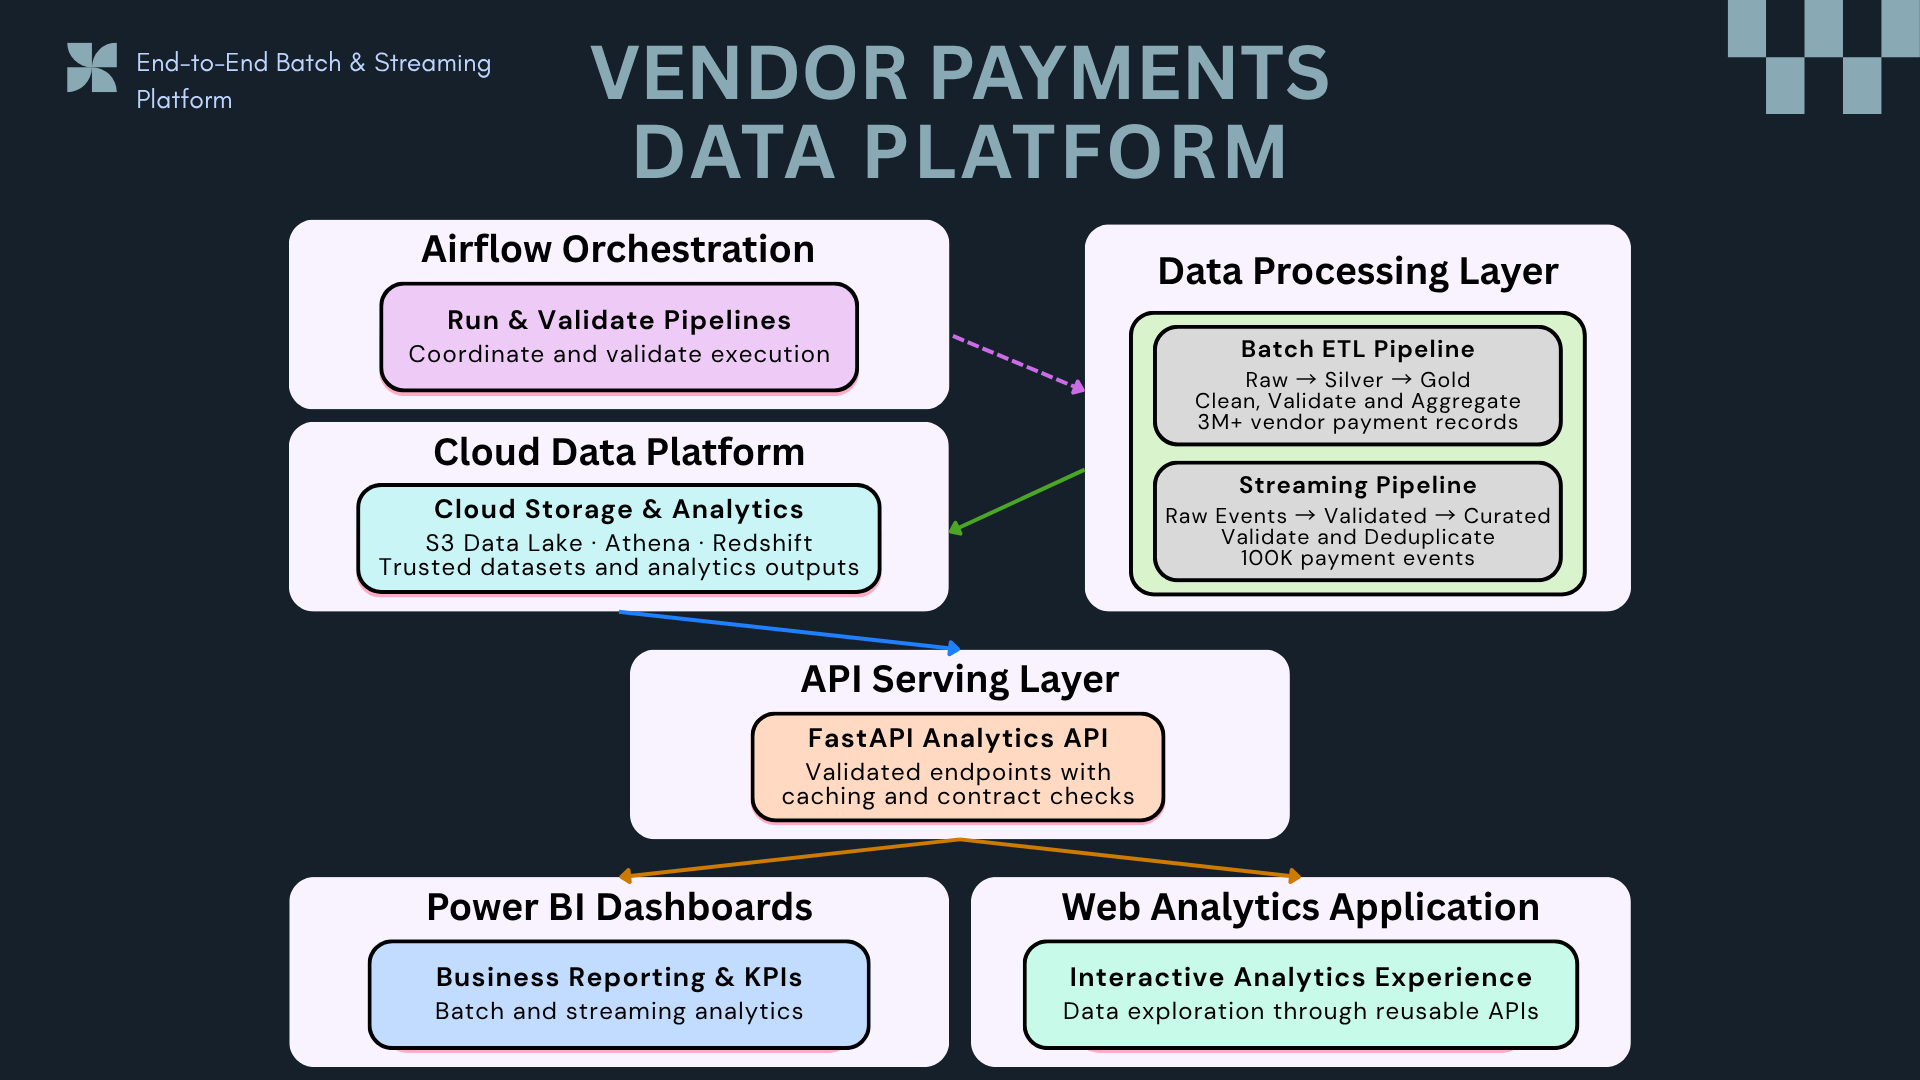
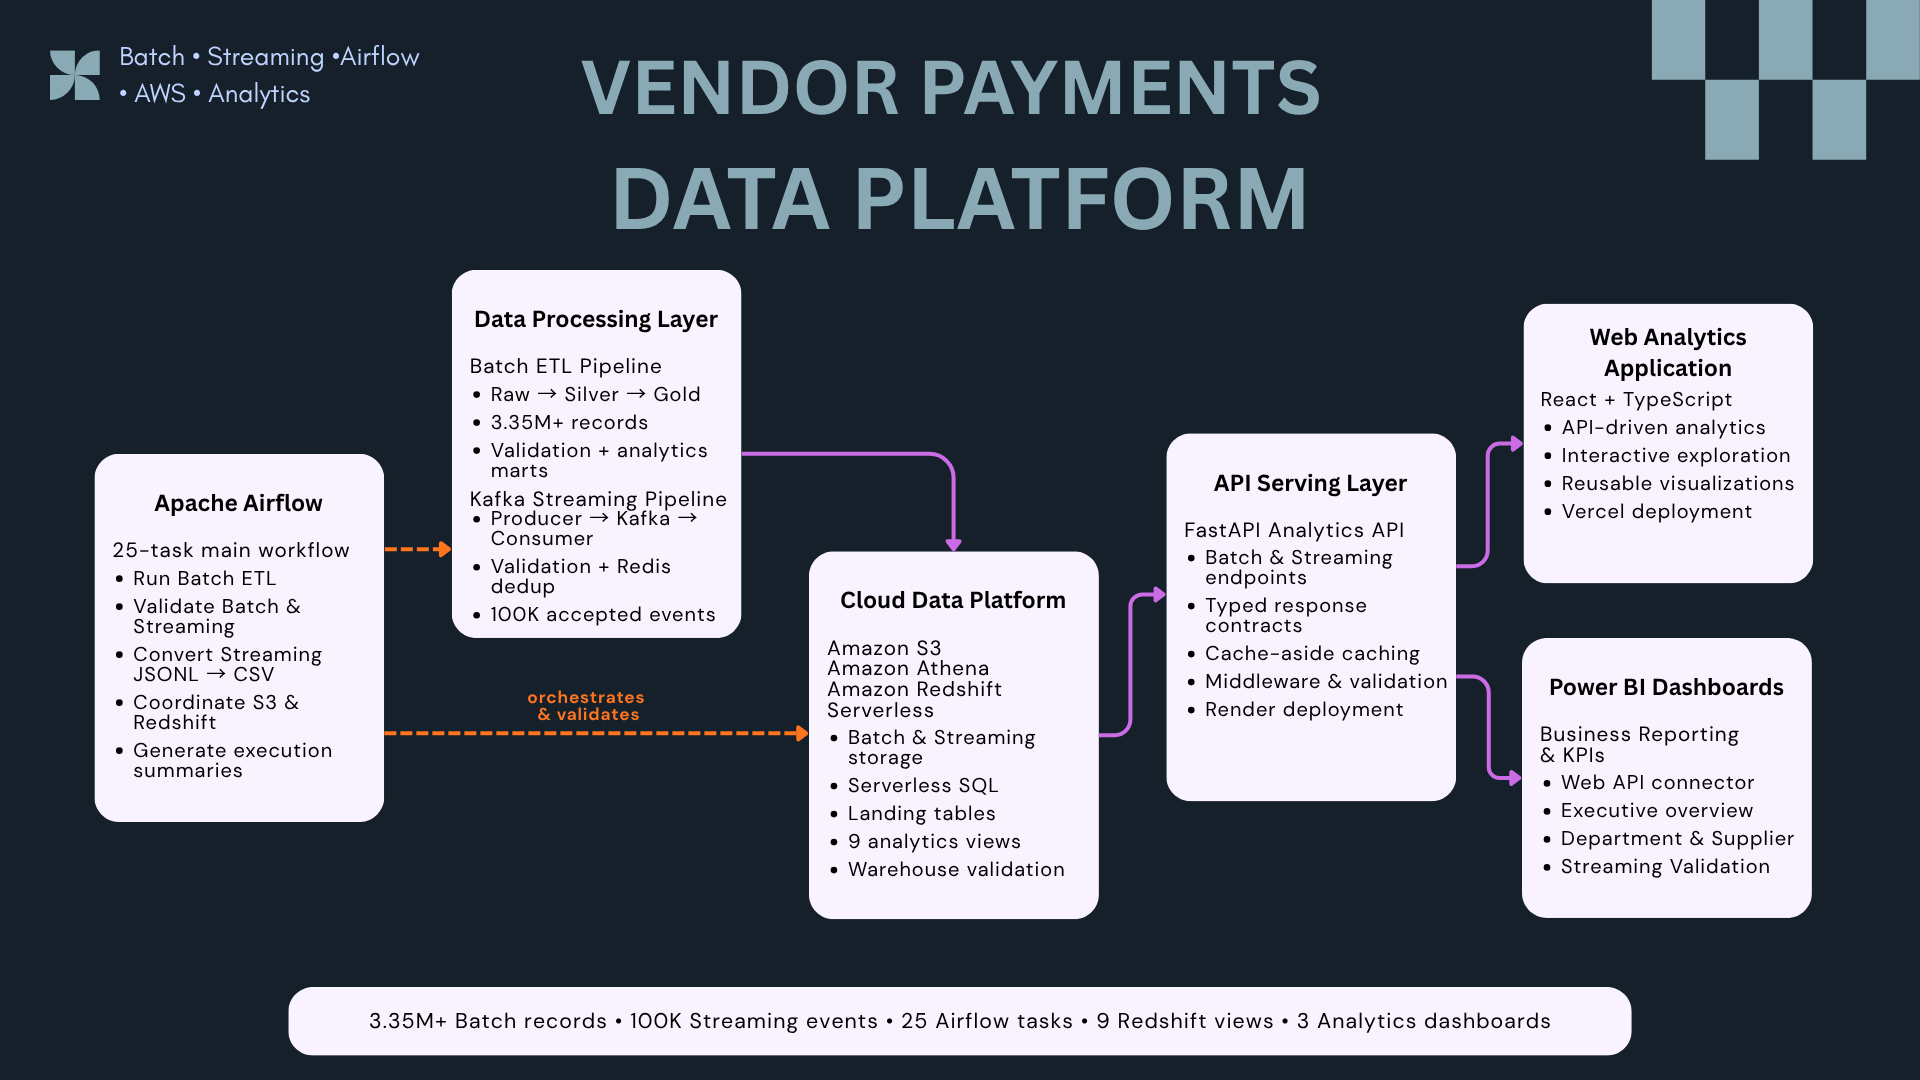
docs: finalize vendor payments data platform

diff --git a/README.md b/README.md
@@ -15,7 +15,7 @@ An end-to-end data engineering portfolio that connects Batch ETL, Streaming, Air
 
 **Built independently by Thanaseth Chuachan, a Data Engineer candidate with a Mathematics background.**
 
-[**Live Analytics Application**](https://vendor-payments-analytics.vercel.app) · [**FastAPI Documentation**](https://vendor-payments-api-serving.onrender.com/docs) · [**Explore the Projects**](#explore-the-projects)
+[**Live Analytics Application**](https://vendor-payments-analytics.vercel.app) · [**FastAPI Documentation**](https://vendor-payments-api-render.onrender.com/docs) · [**Explore the Repositories**](#explore-the-repositories)
 
 ---
 
@@ -23,13 +23,13 @@ An end-to-end data engineering portfolio that connects Batch ETL, Streaming, Air
 
 | Metric | Validated result |
 |---|---:|
-| Integrated data engineering projects | 5 |
+| Platform repositories / components | 6 |
 | Batch records processed | 3.35M+ |
 | Validated Streaming events | 100,000 |
 | Distinct Streaming event IDs | 100,000 |
 | Duplicate or missing event IDs in warehouse validation | 0 |
-| Airflow orchestration | 3 DAGs, 12 tasks in the main platform workflow |
-| Main Airflow workflow runtime | 16 minutes 36 seconds |
+| Main Airflow workflow | 25 tasks |
+| Main Airflow workflow runtime | 1,160.74 seconds |
 | API cache validation | Cache MISS 7,076.46 ms → Cache HIT 0.58 ms |
 | Cached response improvement | ~12,200× faster with 99.99% latency reduction |
 | Total Redshift analytics views | 9 |
@@ -46,25 +46,27 @@ An end-to-end data engineering portfolio that connects Batch ETL, Streaming, Air
 The platform separates processing responsibilities while keeping the complete delivery path traceable:
 
 ```text
-Batch ETL + Streaming Processing
-            ↓
-     Airflow Orchestration
-            ↓
-Amazon S3 + Athena + Redshift
-            ↓
-     FastAPI Serving Layer
-            ↓
- Power BI + React Web Analytics
+                         Apache Airflow
+                    orchestrates & validates
+                         ⋮             ⋮
+                         ↓             ↓
+
+Batch ETL + Kafka Streaming ─────→ Cloud Data Platform
+                                      │
+                                      ↓
+                               FastAPI Serving
+                                  ↙         ↘
+                           Power BI        React Web
 ```
 
 ### Responsibility Boundaries
 
 - **Batch ETL Pipeline** owns Raw → Silver → Gold transformation, validation, and analytics marts.
-- **Streaming Pipeline** owns event ingestion, validation, deduplication, and curated outputs.
-- **Airflow Orchestration** coordinates execution, dependencies, retries, and metadata validation.
+- **Kafka Streaming Pipeline** owns Producer → Kafka → Consumer processing, schema validation, Redis-backed deduplication, accepted-event staging, and execution metrics.
+- **Airflow Orchestration** owns execution order, dependency coordination, Batch execution, downstream Streaming validation, JSONL → CSV conversion, S3/Redshift orchestration, and execution summaries.
 - **Cloud Data Platform** owns S3 publishing, Athena definitions, Redshift loading, analytics views, and runtime metadata.
 - **API Serving Layer** exposes validated Batch and Streaming analytics through reusable contracts.
-- **Power BI and React** consume the same trusted analytics outputs for business reporting and interactive exploration.
+- **Power BI and React** consume the FastAPI serving layer for business reporting and interactive exploration.
 
 ---
 
@@ -73,7 +75,7 @@ Amazon S3 + Athena + Redshift
 The deployed React application consumes the public FastAPI service and presents the final analytics consumption layer of the platform.
 
 **Live application:** https://vendor-payments-analytics.vercel.app  
-**API documentation:** https://vendor-payments-api-serving.onrender.com/docs
+**API documentation:** https://vendor-payments-api-render.onrender.com/docs
 
 ### Project Overview
 
@@ -104,7 +106,7 @@ The application demonstrates:
 
 ## Power BI Dashboards
 
-Three Power BI dashboards provide a second analytics-consumption path over the same trusted project outputs.
+Three Power BI dashboards provide a second analytics-consumption path through the Web API connector.
 
 ### Executive Overview Dashboard
 
@@ -122,17 +124,18 @@ This dual-consumption design demonstrates that the platform can serve both conve
 
 ---
 
-## Explore the Projects
+## Explore the Repositories
 
 Each repository owns a focused platform responsibility and includes architecture documentation, implementation details, automated validation, runtime metadata, and execution evidence.
 
-| Project | Responsibility | Engineering focus |
+| Repository | Responsibility | Engineering focus |
 |---|---|---|
-| [**Project 1 — Batch ETL Pipeline**](https://github.com/Chu-Thana/vendor-payments-etl-analytics) | Raw → Silver → Gold processing | Data cleaning, validation, aggregation, analytics marts, and reproducible Batch outputs |
-| [**Project 2 — API Serving Layer**](https://github.com/Chu-Thana/vendor-payments-api-serving) | FastAPI analytics service | Typed contracts, service and repository layers, middleware, in-memory cache-aside caching, tests, and public deployment |
-| [**Project 3 — Streaming Pipeline**](https://github.com/Chu-Thana/vendor-payments-streaming-pipeline) | Event processing | Kafka-style ingestion, schema validation, deduplication, curated outputs, and execution metrics |
-| [**Project 4 — Airflow Orchestration**](https://github.com/Chu-Thana/vendor-payments-airflow-orchestration) | Cross-project workflow coordination | DAG design, dependencies, retries, metadata validation, and operational summaries |
-| [**Project 5 — Cloud Data Platform**](https://github.com/Chu-Thana/vendor-payments-cloud-data-platform) | Cloud and warehouse analytics | Amazon S3, Athena, Glue Data Catalog, Redshift Serverless, analytics views, and runtime metadata |
+| [**vendor-payments-etl-analytics**](https://github.com/Chu-Thana/vendor-payments-etl-analytics) | Batch ETL and analytics processing | Raw → Silver → Gold, chunk processing, deterministic keys, quality flags, validation, Gold marts |
+| [**vendor-payments-streaming-pipeline**](https://github.com/Chu-Thana/vendor-payments-streaming-pipeline) | Kafka event processing | Producer, Kafka topic, Consumer, Redis deduplication, staging JSONL, alerts, execution metrics |
+| [**vendor-payments-airflow-orchestration**](https://github.com/Chu-Thana/vendor-payments-airflow-orchestration) | Workflow orchestration | DAG dependencies, Batch execution, Streaming downstream validation, S3/Redshift orchestration, summaries |
+| [**vendor-payments-cloud-data-platform**](https://github.com/Chu-Thana/vendor-payments-cloud-data-platform) | Cloud and warehouse analytics | Amazon S3, Athena, Redshift Serverless, landing tables, analytics views, warehouse validation |
+| [**vendor-payments-api-serving**](https://github.com/Chu-Thana/vendor-payments-api-serving) | FastAPI analytics service | Typed contracts, service/repository layers, middleware, cache-aside responses, Docker, Render deployment |
+| [**vendor-payments-analytics**](https://github.com/Chu-Thana/vendor-payments-analytics) | Analytics consumption | React + TypeScript web analytics, Power BI, reusable API-driven views |
 
 ---
 
@@ -145,14 +148,27 @@ Vendor payment source data
 │   └── Raw → Silver → Gold → analytics marts
 │
 └── Streaming path
-    └── Events → validation → deduplication → curated output
+    └── Producer → Kafka → Consumer
+        → validation → Redis deduplication
+        → validated staging JSONL
 
-Validated Batch and Streaming outputs
-→ Airflow-coordinated execution
-→ Amazon S3 data lake
-→ Amazon Athena and Redshift Serverless
-→ FastAPI analytics contracts
-→ Power BI dashboards and React web analytics
+Apache Airflow
+→ runs and validates Batch processing
+→ validates Streaming staging outputs
+→ converts Streaming JSONL → curated CSV
+→ coordinates S3 publishing and Redshift processing
+
+Amazon S3
+├──→ Amazon Athena
+│    └── direct serverless SQL over curated S3 datasets
+│
+└──→ Amazon Redshift Serverless
+     └── landing tables → analytics views → warehouse validation
+
+Trusted analytics
+→ FastAPI contracts
+├──→ Power BI dashboards
+└──→ React web analytics
 ```
 
 The design keeps transformation, orchestration, cloud processing, serving, and presentation in separate modules with explicit interfaces between them.
@@ -167,13 +183,15 @@ The design keeps transformation, orchestration, cloud processing, serving, and p
 - Applied Raw → Silver → Gold data layering
 - Produced business-ready fiscal-year, department, supplier, pending-payment, and fund-category marts
 - Added validation checkpoints and generated execution metadata
+- Passed **20 automated tests** with Ruff validation
 
 ### Streaming Processing
 
-- Processed and validated **100,000 payment events**
+- Accepted and validated **100,000 unique payment events**
 - Preserved **100,000 distinct event IDs** after cloud and warehouse loading
 - Validated **0 duplicate** and **0 missing event IDs** in Redshift
-- Produced event-level and aggregate outputs for downstream analytics
+- Produced validated staging JSONL for downstream orchestration
+- Passed **47 automated tests** with Ruff validation and CI
 
 ### API Serving
 
@@ -186,14 +204,15 @@ The design keeps transformation, orchestration, cloud processing, serving, and p
 ### Cloud Analytics
 
 - Published trusted Batch and Streaming outputs to Amazon S3
-- Defined Athena external tables through AWS Glue Data Catalog
+- Queried curated S3 data through Amazon Athena
 - Loaded **5 Batch landing tables** and **1 Streaming landing table** into Redshift Serverless
 - Created **9 analytics views** across Batch and Streaming workloads
 - Generated and validated machine-readable Redshift runtime metadata
+- Passed **34 automated tests** with Ruff validation and CI
 
 ### Orchestration and Quality
 
-- Coordinated platform workflows through **4 Airflow DAGs with 11+ tasks**
+- Coordinated the main platform workflow through **25 Airflow tasks**
 - Applied Ruff, pytest, GitHub Actions, Docker, and Docker Compose across the portfolio
 - Kept generated data, secrets, and local runtime files outside source control
 - Stored execution evidence alongside the component that owns each responsibility
@@ -220,9 +239,9 @@ The portfolio is designed around practical data-engineering patterns rather than
 | Layer | Technologies |
 |---|---|
 | Data processing | Python, Pandas, SQL |
-| Streaming | Kafka-style producer and consumer workflows, Redis |
+| Streaming | Apache Kafka, Redis |
 | Orchestration | Apache Airflow |
-| Cloud storage and query | Amazon S3, AWS Glue Data Catalog, Amazon Athena |
+| Cloud storage and query | Amazon S3, Amazon Athena |
 | Warehouse | Amazon Redshift Serverless |
 | API serving | FastAPI, Pydantic, in-memory caching, Uvicorn |
 | Business intelligence | Power BI |
@@ -234,7 +253,7 @@ The portfolio is designed around practical data-engineering patterns rather than
 
 ## Validation and CI/CD
 
-Automated validation is implemented across all five projects.
+Automated validation is implemented across the platform repositories.
 
 | Project | Automated validation |
 |---|---|
@@ -243,6 +262,7 @@ Automated validation is implemented across all five projects.
 | Streaming | Project structure, event processing, output validation, Docker Compose configuration |
 | Airflow | DAG imports, project structure, cross-project metadata, orchestration outputs |
 | Cloud Platform | S3 plans, Athena SQL assets, Redshift metrics, event-ID integrity, metadata contracts, CI |
+| Analytics | Frontend build and API-driven analytics consumption |
 
 The validation strategy is designed to detect broken code, missing assets, invalid metadata, incompatible response contracts, and deployment regressions before downstream consumption.
 
@@ -278,7 +298,7 @@ data-engineering-platform/
 └── README.md
 ```
 
-The five component implementations remain in their dedicated repositories, while this repository presents the integrated architecture and final analytics-consumption layer.
+The core component implementations remain in their dedicated repositories, while this repository presents the integrated architecture and final analytics-consumption layer.
 
 ---
 
@@ -327,10 +347,10 @@ Web application
 https://vendor-payments-analytics.vercel.app
 
 FastAPI documentation
-https://vendor-payments-api-serving.onrender.com/docs
+https://vendor-payments-api-render.onrender.com/docs
 ```
 
-The frontend is deployed through Vercel and reads the public API base URL from `VITE_API_BASE_URL`. The backend is deployed through Render with explicit CORS configuration for local development and the production Vercel origin.
+The frontend is deployed through Vercel and reads the public API base URL from `VITE_API_BASE_URL`. The backend is containerized and deployed through Render with explicit CORS configuration for local development and the production Vercel origin.
 
 The Render free instance may require a short cold start after inactivity before the first API-backed page finishes loading.
 
@@ -358,3 +378,4 @@ The result demonstrates data pipeline development, system design, data quality, 
 This is not a collection of disconnected tool demos.
 
 It is a modular data platform in which each project owns a clear responsibility, publishes validated outputs, and contributes to a deployed analytics experience that can be opened and reviewed end to end.
+
